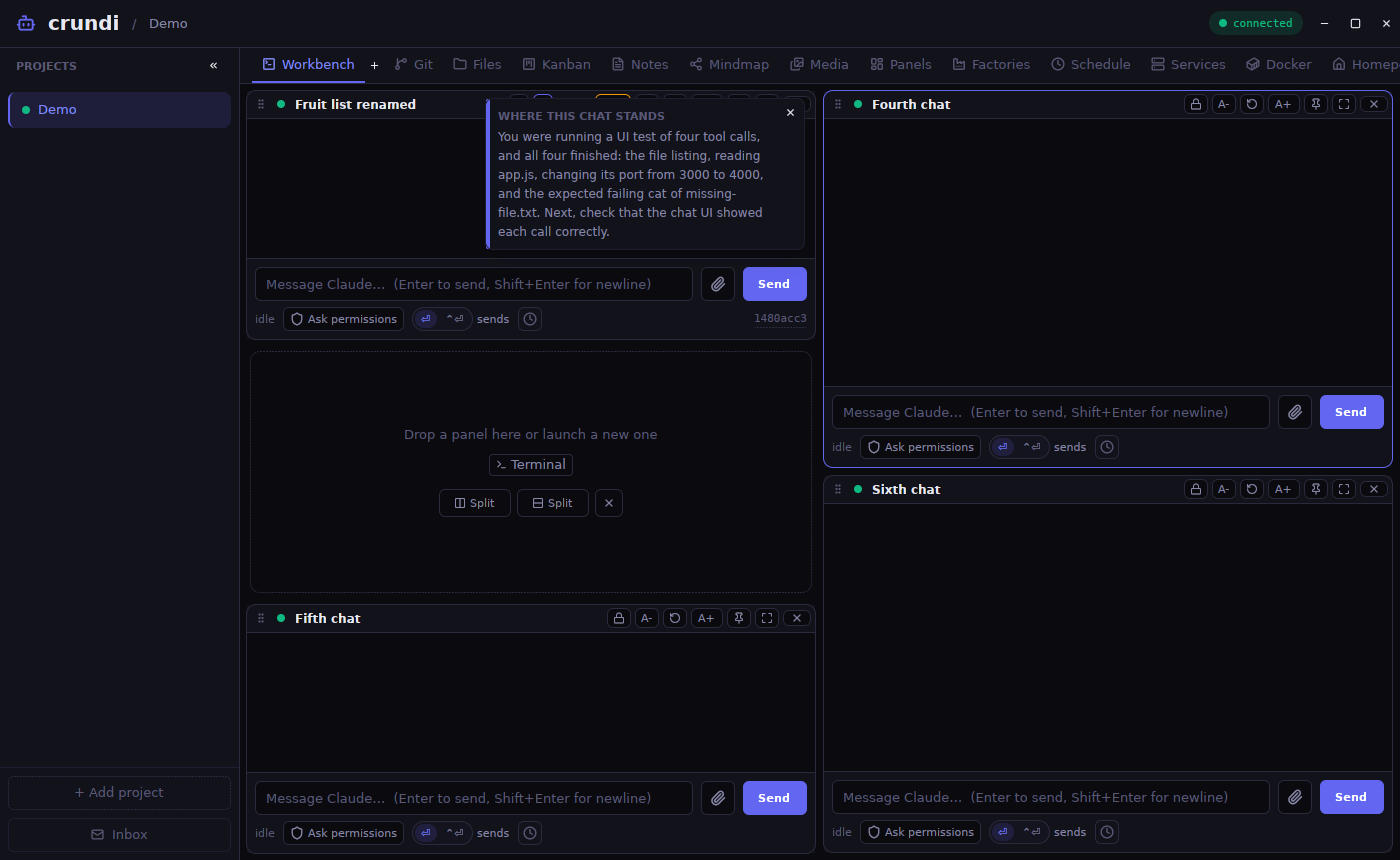
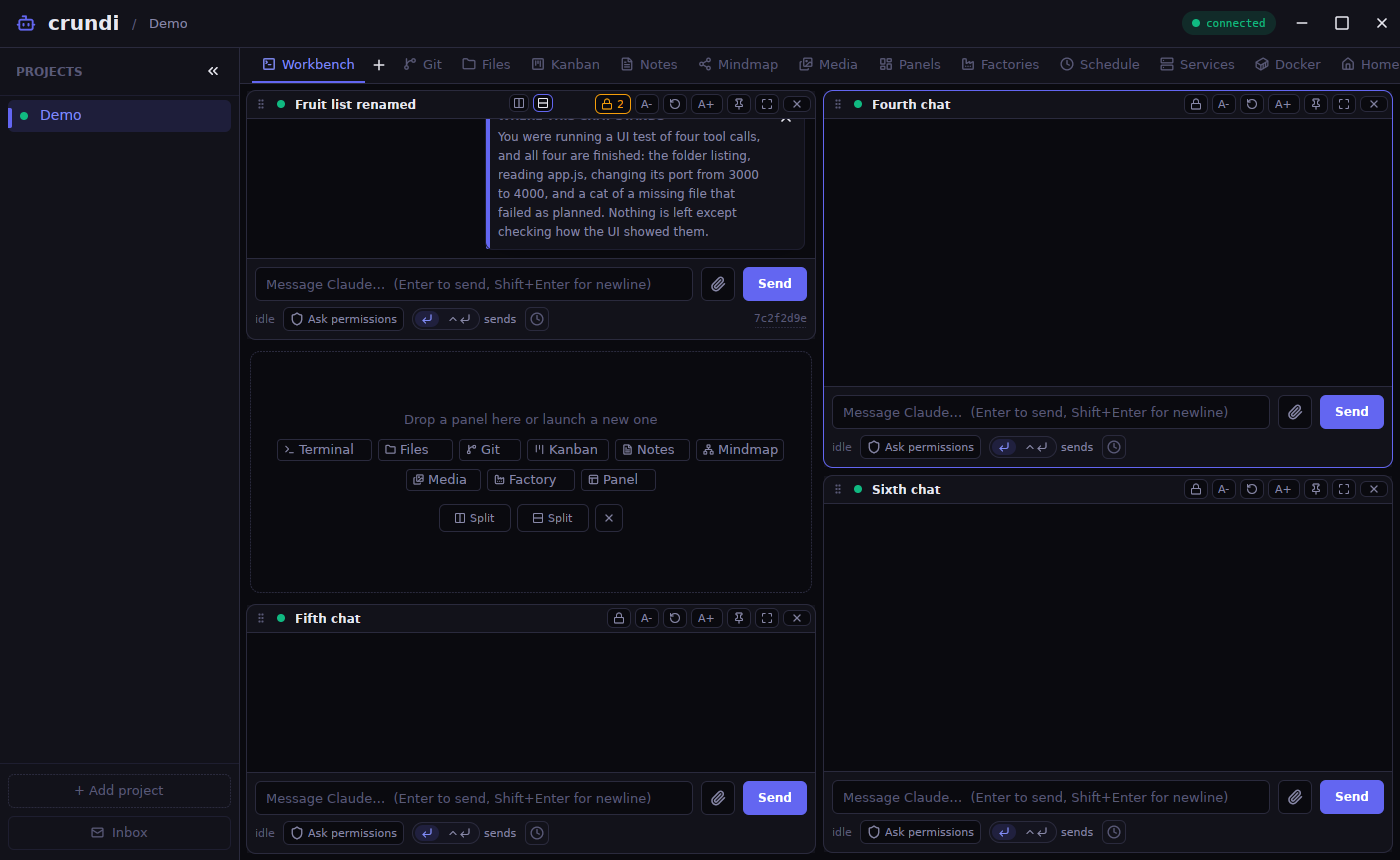
factory: Workspace — The workbench and Git fixes for this round are in; the Claude terminal…

diff --git a/native-gpui/crates/workbench/src/lib.rs b/native-gpui/crates/workbench/src/lib.rs
@@ -76,6 +76,31 @@ pub struct OnSecrets(pub Rc<dyn Fn(&str, &mut Window, &mut App)>);
 impl Global for OnSecrets {}
 pub fn set_on_secrets(cx: &mut App, f: impl Fn(&str, &mut Window, &mut App) + 'static) { cx.set_global(OnSecrets(Rc::new(f))); }
 
+/// An empty pane's chips (the web's emptyLeafHtml): Terminal, the panels
+/// not in the workbench yet (Notes always), Panel; in rows that fit the pane
+/// (a chip is its icon and padding plus about 6.6px a character, as the
+/// phase 2 test reads them).
+pub(crate) fn empty_chips(open: &[String], width: f32) -> Vec<Vec<(&'static str, &'static str)>> {
+    let mut items: Vec<(&'static str, &'static str)> = vec![("terminal", "Terminal")];
+    for (k, l) in [("files", "Files"), ("git", "Git"), ("kanban", "Kanban"), ("notes", "Notes"), ("mindmap", "Mindmap"), ("media", "Media"), ("factory", "Factory")] {
+        if k == "notes" || !open.iter().any(|o| o == k) { items.push((k, l)); }
+    }
+    items.push(("widget", "Panel"));
+    let room = (width - 40.0).max(120.0);
+    let mut rows: Vec<Vec<(&'static str, &'static str)>> = vec![vec![]];
+    let mut used = 0.0;
+    for (id, label) in items {
+        let w = chip_w(label);
+        if used > 0.0 && used + 6.0 + w > room { rows.push(vec![]); used = 0.0; }
+        used += if used > 0.0 { 6.0 + w } else { w };
+        rows.last_mut().unwrap().push((id, label));
+    }
+    rows
+}
+
+/// A chip's width for its label.
+pub(crate) fn chip_w(label: &str) -> f32 { f32::from(crundi_theme::T::WS_CHIP_BASE) + label.chars().count() as f32 * crundi_theme::T::WS_CHIP_CHAR }
+
 /// The pane kinds a key can be.
 pub fn pane_kind(key: &str) -> &'static str {
     if key.is_empty() { "empty" } else if key.starts_with("live:") { "chat" } else if key.starts_with("pend:") { "launcher" } else if key.starts_with("panel:") { "panel" } else { "other" }
@@ -112,6 +137,12 @@ pub(crate) struct Info {
     pub secrets: bool,
     pub secrets_n: usize,
     pub launch_busy: i32,
+    /// A parked chat (2.23): the header keeps only grip, dot, title, CHAT, pin and ×.
+    pub parked: bool,
+    /// A factory's Manager chat (2.20): the Factory tag.
+    pub factory: bool,
+    /// An empty pane's chips, in rows that fit it.
+    pub chips: Vec<Vec<(&'static str, &'static str)>>,
 }
 
 /// The workbench: one mosaic per project.
@@ -323,6 +354,7 @@ impl Workbench {
         let (gw, gh) = self.grid_size();
         let leaves = self.mosaic().layout(gw, gh).0;
         let now = std::time::SystemTime::now().duration_since(std::time::UNIX_EPOCH).map(|d| d.as_secs_f64()).unwrap_or(0.0);
+        let open_kinds: Vec<String> = leaves.iter().filter_map(|l| l.key.as_deref()).filter_map(|k| k.strip_prefix("panel:").map(|r| r.split(':').next().unwrap_or("").to_string())).collect();
         leaves.into_iter().map(|l| {
             let key = l.key.clone().unwrap_or_default();
             let kind = pane_kind(&key);
@@ -331,6 +363,10 @@ impl Workbench {
             let id = chat_of(&key).unwrap_or("").to_string();
             let collab = Self::chat_item(cx, &id).and_then(|c| c.get("collaborator").cloned()).is_some_and(|v| v.as_bool().unwrap_or(!v.is_null()));
             let n = rules::grant_count(self.grants.get(&id), now);
+            let item = Self::chat_item(cx, &id);
+            let parked = item.as_ref().is_some_and(|c| c.get("kind").and_then(|k| k.as_str()) == Some("parked"));
+            let factory = item.as_ref().is_some_and(rules::factory_manager);
+            let chips = if kind == "empty" { empty_chips(&open_kinds, l.w) } else { vec![] };
             // A parked chat's header (2.23) has only grip, dot, title, tag, pin and ×: it never folds.
             let parked = Self::chat_item(cx, &id).is_some_and(|c| c.get("kind").and_then(|k| k.as_str()) == Some("parked"));
             Info {
@@ -339,6 +375,7 @@ impl Workbench {
                 drop: self.drag.is_some_and(|d| d.target == l.id && d.src != l.id),
                 secrets: kind == "chat" && self.secrets_cap && !collab, secrets_n: n,
                 launch_busy: *self.launching.get(&l.id).unwrap_or(&0),
+                parked, factory, chips,
                 key, kind, title, short, cap, state, l,
             }
         }).collect()
@@ -353,6 +390,8 @@ impl Workbench {
                 "state": i.state, "focused": i.focused, "x": i.l.x, "y": i.l.y, "w": i.l.w, "h": i.l.h, "pinned": i.l.pinned,
                 "fs": i.fs, "armed": i.armed, "narrow": i.narrow, "menu": i.menu, "drop": i.drop,
                 "secrets": i.secrets, "secretsN": i.secrets_n, "secretsTip": rules::secrets_tip(i.secrets_n), "launchBusy": i.launch_busy,
+                "parked": i.parked, "factory": i.factory,
+                "chips": i.chips.iter().map(|r| r.iter().map(|(id, label)| json!({ "id": id, "label": label })).collect::<Vec<_>>()).collect::<Vec<_>>(),
             });
             for (p, f) in &extra {
                 if i.key.starts_with(p) { if let (Some(o), Value::Object(add)) = (v.as_object_mut(), f(&i.key, cx)) { o.extend(add); } }

diff --git a/native-gpui/crates/workspace/src/diffview.rs b/native-gpui/crates/workspace/src/diffview.rs
@@ -64,16 +64,21 @@ impl DiffWin {
         });
     }
 
-    fn half(ln: &str, text: &str, kind: &str) -> Div {
-        let (bg, fg) = match kind {
-            "del" => (T::ws_diff_del(), T::ws_diff_del_text()),
-            "add" => (T::ws_diff_add(), T::ws_diff_add_text()),
-            "pad" => (T::bg_secondary(), T::text_muted()),
-            _ => (T::bg(), T::text()),
+    /// One side of a row: its line number, then the line in its colour, the
+    /// changed words of a replaced line on a stronger background.
+    fn half(ln: &str, text: &str, kind: &str, words: &[(usize, usize)]) -> Div {
+        let (bg, fg, word) = match kind {
+            "del" => (T::ws_diff_del(), T::ws_diff_del_text(), T::ws_diff_del_word()),
+            "add" => (T::ws_diff_add(), T::ws_diff_add_text(), T::ws_diff_add_word()),
+            "pad" => (T::bg_secondary(), T::text_muted(), T::bg_secondary()),
+            _ => (T::bg(), T::text(), T::bg()),
         };
+        let line: SharedString = if text.is_empty() { " ".into() } else { text.to_string().into() };
+        let marks: Vec<(std::ops::Range<usize>, HighlightStyle)> = words.iter().filter(|(a, b)| a < b && *b <= text.len())
+            .map(|(a, b)| (*a..*b, HighlightStyle { background_color: Some(word), ..Default::default() })).collect();
         div().flex().flex_1().min_w_0().bg(bg).text_size(T::TEXT_12).font_family(T::MONO)
             .child(div().flex_none().w(T::WS_DIFF_LN).pr(T::SP_8).flex().justify_end().text_color(T::text_muted()).child(ln.to_string()))
-            .child(div().flex_1().min_w_0().text_color(fg).whitespace_nowrap().overflow_hidden().child(if text.is_empty() { " ".to_string() } else { text.to_string() }))
+            .child(div().flex_1().min_w_0().text_color(fg).whitespace_nowrap().overflow_hidden().child(StyledText::new(line).with_highlights(marks)))
     }
 }
 
@@ -91,8 +96,8 @@ impl Render for DiffWin {
                 continue;
             }
             list = list.child(div().flex().gap(px(1.)).bg(T::border())
-                .child(Self::half(&r.old_ln, &r.old, r.old_kind))
-                .child(Self::half(&r.new_ln, &r.new, r.new_kind)));
+                .child(Self::half(&r.old_ln, &r.old, r.old_kind, &r.old_words))
+                .child(Self::half(&r.new_ln, &r.new, r.new_kind, &r.new_words)));
         }
         let col = |t: &'static str| div().flex_1().px(T::SP_8).text_size(T::TEXT_10).font_weight(T::W_BOLD).text_color(T::text_muted()).child(t);
         div().flex().flex_col().w(T::WS_DIFF_W).h(T::WS_DIFF_H)

diff --git a/native-gpui/crates/workbench/src/view.rs b/native-gpui/crates/workbench/src/view.rs
@@ -19,6 +19,8 @@ impl Workbench {
             None => w::empty("Not built yet in the GPUI client.").into_any_element(),
         };
         let head = self.head(i, full, cx);
+        // The body clipped to its box (a long log never draws over the header).
+        let body = div().relative().size_full().overflow_hidden().child(body);
         w::panel(head, body).when(i.focused && !full, |d| d.border_color(T::accent())).into_any_element()
     }
 
@@ -46,9 +48,20 @@ impl Workbench {
                 .flex().flex_col().items_center().justify_center()
                 .child(div().h(T::SP_16).flex().items_center().text_size(T::TEXT_13).text_color(T::text_muted()).child("Drop a panel here or launch a new one"))
                 .child(div().h(T::SP_10))
-                .child(div().h(T::SP_24).mb(T::SP_2).flex().items_center().justify_center().gap(T::SP_6)
-                    .child(div().id(("chip-terminal", id)).cursor_pointer().on_click(cx.listener(move |this, _, _, cx| this.chip(id, "terminal", cx)))
-                        .child(w::chip(IconName::Terminal, "Terminal", false))))
+                .child({
+                    let mut rows = div().flex().flex_col().gap(T::SP_6).mb(T::SP_2);
+                    for row in &i.chips {
+                        let mut r = div().h(T::SP_24).flex().items_center().justify_center().gap(T::SP_6);
+                        for (k, label) in row.iter().copied() {
+                            let icon = match k { "terminal" => IconName::Terminal, "files" => IconName::Folder, "git" => IconName::GitBranch, "kanban" => IconName::Kanban, "notes" => IconName::FileText, "mindmap" => IconName::Network, "media" => IconName::Images, "factory" => IconName::Factory, _ => IconName::PanelsTopLeft };
+                            r = r.child(div().id(SharedString::from(format!("chip-{k}-{id}"))).flex_none().w(px(crate::chip_w(label))).cursor_pointer()
+                                .on_click(cx.listener(move |this, _, _, cx| this.chip(id, k, cx)))
+                                .child(w::chip(icon, label, false)));
+                        }
+                        rows = rows.child(r);
+                    }
+                    rows
+                })
                 .child(div().h(T::SP_10))
                 .child(div().flex().items_center().gap(T::SP_6)
                     .child(btn("e-right", IconName::Columns2, "Split right").on_click(cx.listener(move |this, _, _, cx| this.split(id, false, cx))))

diff --git a/native-gpui/crates/workspace/src/diff.rs b/native-gpui/crates/workspace/src/diff.rs
@@ -129,13 +129,29 @@ pub fn rows(ops: &[Op]) -> Vec<Row> {
         }
         match &ops[i] {
             Op::Equal(t) => { out.push(row(o.to_string(), t, "equal", n.to_string(), t, "equal")); o += 1; n += 1; }
-            Op::Remove(t) if matches!(ops.get(i + 1), Some(Op::Add(_))) => {
-                let a = ops[i + 1].text();
-                let (ow, nw) = word_diff(t, a);
-                out.push(Row { old_words: ow, new_words: nw, ..row(o.to_string(), t, "del", n.to_string(), a, "add") });
-                o += 1; n += 1; i += 1;
+            // A run of removed lines and the run of added lines after it
+            // pair up row by row (old 2 beside new 2…), with their changed
+            // words; the longer run's extra lines face an empty filler.
+            Op::Remove(_) => {
+                let mut j = i;
+                while matches!(ops.get(j), Some(Op::Remove(_))) { j += 1; }
+                let mut k = j;
+                while matches!(ops.get(k), Some(Op::Add(_))) { k += 1; }
+                let (rem, add) = (&ops[i..j], &ops[j..k]);
+                for x in 0..rem.len().max(add.len()) {
+                    match (rem.get(x), add.get(x)) {
+                        (Some(r), Some(a)) => {
+                            let (ow, nw) = word_diff(r.text(), a.text());
+                            out.push(Row { old_words: ow, new_words: nw, ..row(o.to_string(), r.text(), "del", n.to_string(), a.text(), "add") });
+                            o += 1; n += 1;
+                        }
+                        (Some(r), None) => { out.push(row(o.to_string(), r.text(), "del", String::new(), "", "pad")); o += 1; }
+                        (None, Some(a)) => { out.push(row(String::new(), "", "pad", n.to_string(), a.text(), "add")); n += 1; }
+                        (None, None) => {}
+                    }
+                }
+                i = k - 1;
             }
-            Op::Remove(t) => { out.push(row(o.to_string(), t, "del", String::new(), "", "pad")); o += 1; }
             Op::Add(t) => { out.push(row(String::new(), "", "pad", n.to_string(), t, "add")); n += 1; }
         }
         i += 1;

diff --git a/native-gpui/crates/workbench/src/head.rs b/native-gpui/crates/workbench/src/head.rs
@@ -40,7 +40,7 @@ impl Workbench {
             let t = div().id(("title", id)).flex_none().max_w(px(i.cap.min(room))).min_w_0().h(T::SP_16).px(T::SP_6).rounded(T::R_CONTROL)
                 .flex().items_center().text_size(T::TEXT_12).font_weight(T::W_SEMIBOLD).text_color(T::text())
                 .child(div().truncate().child(i.title.clone()));
-            row = row.child(if chat {
+            row = row.child(if chat && !i.parked {
                 t.cursor_text().hover(|s| s.bg(T::bg_tertiary()))
                     .on_click(cx.listener(move |this, e: &ClickEvent, window, cx| if e.click_count() == 1 && this.drag.is_none() { this.start_rename(id, window, cx); }))
             } else { t });
@@ -66,10 +66,13 @@ impl Workbench {
     /// The header's tools, right to left from the ×.
     fn tools(&self, i: &Info, full: bool, cx: &mut Context<Self>) -> Div {
         let id = i.l.id;
-        let chat = i.kind == "chat";
+        // A parked chat keeps only pin and × here (specs/parked-panes.md).
+        let chat = i.kind == "chat" && !i.parked;
         let h = T::SP_20;
         let mut t = div().flex().flex_none().items_center().gap(T::SP_4)
             .on_mouse_down(MouseButton::Left, cx.listener(move |this, _, _, cx| { this.focus_pane(id, cx); cx.stop_propagation(); }));
+        if i.factory && !i.narrow { t = t.child(w::tag("FACTORY", "accent")); }
+        if i.parked { t = t.child(w::tag("CHAT", "accent")); }
         if !i.narrow {
             if chat && i.secrets {
                 let n = i.secrets_n;

diff --git a/native-gpui/crates/theme/src/lib.rs b/native-gpui/crates/theme/src/lib.rs
@@ -169,6 +169,9 @@ impl T {
 
     // ─── The areas' named sizes (AREAS.md): each only in its own section ───
     // ── workspace ──
+    /// An empty pane's chip: its icon and padding, and a character of its label.
+    pub const WS_CHIP_BASE: Pixels = px(42.);
+    pub const WS_CHIP_CHAR: f32 = 6.6;
     /// The diff window (feOpenDiff): its size, and the side-by-side's colours.
     pub const WS_DIFF_W: Pixels = px(1100.);
     pub const WS_DIFF_H: Pixels = px(620.);
@@ -187,6 +190,9 @@ impl T {
     pub fn ws_diff_del_text() -> Hsla { rgb(0xf87171).into() }
     pub fn ws_diff_add_text() -> Hsla { rgb(0x34d399).into() }
     pub fn ws_diff_chunk() -> Hsla { rgb(0x1e293b).into() }
+    /// A replaced line's changed words (the web's wordDiffHtml backgrounds).
+    pub fn ws_diff_del_word() -> Hsla { rgb(0x5c2020).into() }
+    pub fn ws_diff_add_word() -> Hsla { rgb(0x1a4a2a).into() }
     // ── end workspace ──
     // ── planning ──
     /// secrets (2.12): the dialog's pick list stops here and scrolls.

diff --git a/native-gpui/crates/workspace/src/media.rs b/native-gpui/crates/workspace/src/media.rs
@@ -251,7 +251,7 @@ impl Render for Lightbox {
             .child(w::modal_head("lb-head", s(&it, "originalName"), false, |_, window, cx| w::close_dialog(window, cx)))
             .child(div().flex_1().min_h_0().flex().items_center().justify_center().bg(T::bg()).p(T::SP_12)
                 .child(match thumb { Some(img) => gpui::img(img).max_w_full().max_h_full().object_fit(ObjectFit::Contain).into_any_element(), None => w::empty(if note.is_empty() { "Loading…" } else { note }).into_any_element() }))
-            .child(w::toolbar().child(div().flex_1()).child(w::button("lb-download", "Download").icon(IconName::Download).on_click(move |_, _, cx| { let id = id.clone(); mv.update(cx, |m, cx| m.get(&id, cx)); })))
+            .child(w::toolbar().px(T::SP_16).py(T::SP_10).child(div().flex_1()).child(w::button("lb-download", "Download").icon(IconName::Download).on_click(move |_, _, cx| { let id = id.clone(); mv.update(cx, |m, cx| m.get(&id, cx)); })))
             .into_any_element()
     }
 }
